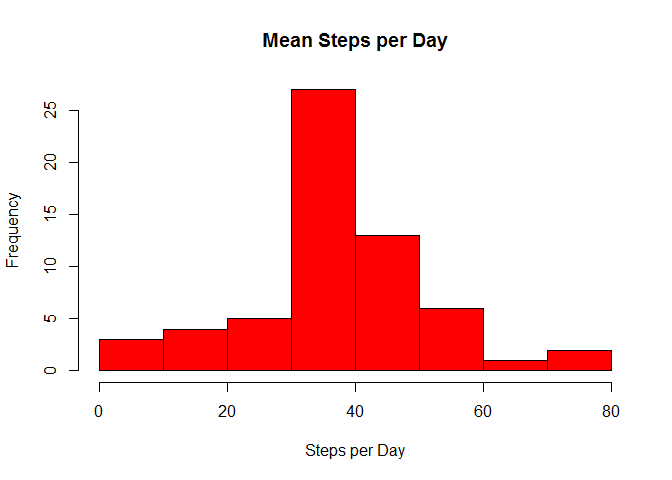
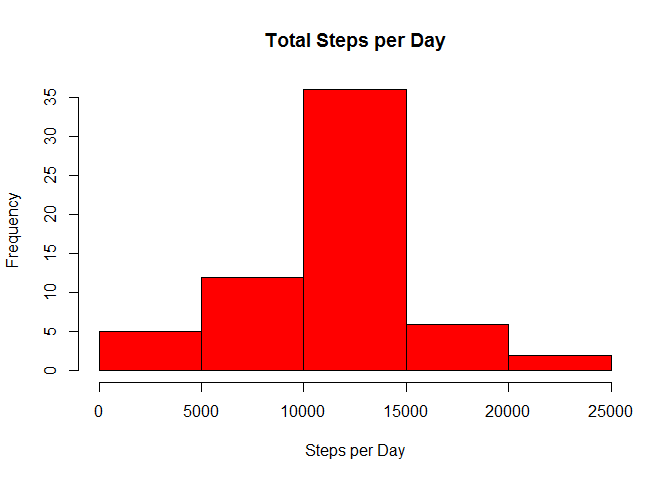
Add files via upload

diff --git a/PA1_template.html b/PA1_template.html
@@ -144,20 +144,20 @@ library(lubridate)</code></pre>
 ##     date</code></pre>
 <pre class="r"><code>Data$date &lt;-ymd(Data$date)</code></pre>
 </div>
-<div id="mean-steps-per-day" class="section level2">
-<h2>Mean steps per day</h2>
-<p>Then, we calculate the mean steps for each day using the tapply function. The later will give back a vector with the mean values for each day. It is straightforward to observe the frequency of the observations by plotting also a histogram.</p>
-<pre class="r"><code>dm &lt;- with(Data, tapply(steps, date, mean))
+<div id="total-steps-per-day" class="section level2">
+<h2>Total steps per day</h2>
+<p>Then, we calculate the total steps for each day using the tapply function. The later will give back a vector with the total values for each day. It is straightforward to observe the frequency of the observations by plotting also a histogram.</p>
+<pre class="r"><code>dm &lt;- with(Data, tapply(steps, date, sum))
 
 hist(dm, col = &quot;red&quot;, 
-       main = &quot;Mean Steps per Day&quot;, 
+       main = &quot;Total Steps per Day&quot;, 
        xlab = &quot;Steps per Day&quot;)</code></pre>
[1 lines of base64/hex data omitted]
-<p>From the histogram we observe that we have an almost normal distribution with a pick little less than 40 steps. Indeed, taking the summary of the previous distribution we get</p>
[1 lines of base64/hex data omitted]
+<p>From the histogram we observe that we have an almost normal distribution with a pick between 10.000 and 15.000 steps. Indeed, taking the summary of the previous distribution we get</p>
 <pre class="r"><code>summary(dm)</code></pre>
 <pre><code>##    Min. 1st Qu.  Median    Mean 3rd Qu.    Max.    NA's 
-##  0.1424 30.7000 37.3800 37.3800 46.1600 73.5900       8</code></pre>
-<p>Hence, it is evident that the distribution is symmetric since the median value is equal to the mean value.</p>
+##      41    8841   10760   10770   13290   21190       8</code></pre>
+<p>Hence, it is evident that the distribution is symmetric since the median value is almost equal to the mean value.</p>
 </div>
 <div id="average-daily-activity-pattern" class="section level2">
 <h2>Average daily activity pattern</h2>
@@ -199,17 +199,17 @@ head(DataR)</code></pre>
 ## 5 0.0754717 2012-10-01       20
 ## 6 2.0943396 2012-10-01       25</code></pre>
 <p>It is evident that in the new data frame the missing values have been replaced.</p>
-<p>We calculate again the average number of steps for each day to investigate the inpact of the replaced missing values.</p>
-<pre class="r"><code>dmR &lt;- with(DataR, tapply(steps, date, mean))
+<p>We calculate again the average number of total steps for each day to investigate the inpact of the replaced missing values.</p>
+<pre class="r"><code>dmR &lt;- with(DataR, tapply(steps, date, sum))
 
 hist(dmR, col = &quot;red&quot;, 
-       main = &quot;Mean Steps per Day&quot;, 
+       main = &quot;Total Steps per Day&quot;, 
        xlab = &quot;Steps per Day&quot;)</code></pre>
[2 lines of base64/hex data omitted]
 <pre class="r"><code>summary(dmR)</code></pre>
 <pre><code>##    Min. 1st Qu.  Median    Mean 3rd Qu.    Max. 
-##  0.1424 34.0900 37.3800 37.3800 44.4800 73.5900</code></pre>
-<p>It is evident that the mean and the median remain unchanged. Thus the expectation value is the same and the distribution remains normal. However, compering the new values of the 1st and the 3rd quarter with the old ones, we confirm that we get a smaller variance.</p>
+##      41    9819   10770   10770   12810   21190</code></pre>
+<p>It is evident that the mean and the median are almost the same. Thus the expectation value is the same and the distribution remaremains normal. However, compering the new values of the 1st and the 3rd quarter with the old ones, we confirm that we get a smaller variance.</p>
 </div>
 <div id="actinity-patternsweeksays-vs-weekends" class="section level2">
 <h2>Actinity Patterns(Weeksays Vs Weekends)</h2>

diff --git a/PA1_template.md b/PA1_template.md
@@ -57,22 +57,22 @@ library(lubridate)
 Data$date <-ymd(Data$date)
 ```
 
-##Mean steps per day
+##Total steps per day
 
-Then, we calculate the mean steps for each day using the tapply function. The later will give back a vector with the mean values for each day. It is straightforward to observe the frequency of the observations by plotting also a histogram.
+Then, we calculate the total steps for each day using the tapply function. The later will give back a vector with the total values for each day. It is straightforward to observe the frequency of the observations by plotting also a histogram.
 
 
 ```r
-dm <- with(Data, tapply(steps, date, mean))
+dm <- with(Data, tapply(steps, date, sum))
 
 hist(dm, col = "red", 
-       main = "Mean Steps per Day", 
+       main = "Total Steps per Day", 
        xlab = "Steps per Day")
 ```
 
 ![](PA1_template_files/figure-html/unnamed-chunk-5-1.png)<!-- -->
 
-From the histogram we observe that we have an almost normal distribution with a pick little less than 40 steps. Indeed, taking the summary of the previous distribution we get
+From the histogram we observe that we have an almost normal distribution with a pick between 10.000 and 15.000 steps. Indeed, taking the summary of the previous distribution we get
 
 
 ```r
@@ -81,10 +81,10 @@ summary(dm)
 
 ```
 ##    Min. 1st Qu.  Median    Mean 3rd Qu.    Max.    NA's 
-##  0.1424 30.7000 37.3800 37.3800 46.1600 73.5900       8
+##      41    8841   10760   10770   13290   21190       8
 ```
 
-Hence, it is evident that the distribution is symmetric since the median value is equal to the mean value.
+Hence, it is evident that the distribution is symmetric since the median value is almost equal to the mean value.
 
 ##Average daily activity pattern
 
@@ -166,14 +166,14 @@ head(DataR)
 ```
 It is evident that in the new data frame the missing values have been replaced.
 
-We calculate again the average number of steps for each day to investigate the inpact of the replaced missing values.
+We calculate again the average number of total steps for each day to investigate the inpact of the replaced missing values.
 
 
 ```r
-dmR <- with(DataR, tapply(steps, date, mean))
+dmR <- with(DataR, tapply(steps, date, sum))
 
 hist(dmR, col = "red", 
-       main = "Mean Steps per Day", 
+       main = "Total Steps per Day", 
        xlab = "Steps per Day")
 ```
 
@@ -186,9 +186,9 @@ summary(dmR)
 
 ```
 ##    Min. 1st Qu.  Median    Mean 3rd Qu.    Max. 
-##  0.1424 34.0900 37.3800 37.3800 44.4800 73.5900
+##      41    9819   10770   10770   12810   21190
 ```
-It is evident that the mean and the median remain unchanged. Thus the expectation value is the same and the distribution remains normal. However, compering the new values of the 1st and the 3rd quarter with the old ones, we confirm that we get a smaller variance. 
+It is evident that the mean and the median are almost the same. Thus the expectation value is the same and the distribution remaremains normal. However, compering the new values of the 1st and the 3rd quarter with the old ones, we confirm that we get a smaller variance. 
 
 ##Actinity Patterns(Weeksays Vs Weekends)
 
